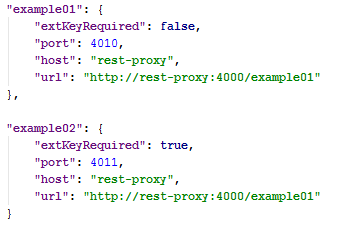
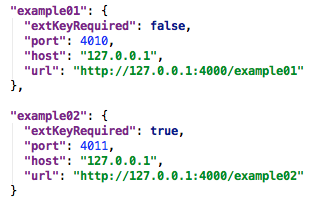
updated example 2 registry image, updated example03 and 04, changed localhost to 127.0.0.1

diff --git a/sections/getstarted/example03.html b/sections/getstarted/example03.html
@@ -36,7 +36,7 @@
 $ node index</code>
 			</pre>
 		<p>
-			<a href='#/documentation/urac'>URAC</a> is now running on http://localhost:4000/urac and will we will use it to login with our users later on when we start the tests.<br />
+			<a href='#/documentation/urac'>URAC</a> is now running on http://127.0.0.1:4000/urac and will we will use it to login with our users later on when we start the tests.<br />
 		</p>
 		</p>
 		<hr/>
@@ -62,13 +62,13 @@ $ ./soajs.mongo.sh</code></pre>
 $ cd soajs.examples/examples03
 $ node index</code></pre>
 		<p>
-			<b>Example03</b> is now running on http://localhost:4000/example03.<br />
+			<b>Example03</b> is now running on http://127.0.0.1:4000/example03.<br />
 
          Let's do a heartbeat check just to make sure all is working as expected before we begin the tests.<br /><br />
 		</p>
 		<fieldset><legend>Heartbeat urac</legend><div class="insideFieldsetMain">
 			<div>
-				<pre><code class="bash">$ curl -X GET "http://localhost:5001/heartbeat"</code></pre>
+				<pre><code class="bash">$ curl -X GET "http://127.0.0.1:5001/heartbeat"</code></pre>
 				<h6><u>Response:</u></h6>
 				<div ng-init="loadJSON(path + 'example03/heartbeat_urac.json', 'heartbeat_urac');">
 					<div id="heartbeat_urac"></div>
@@ -84,7 +84,7 @@ $ node index</code></pre>
 			<div class="insideFieldsetMain">
 
 			<div>
-				<pre><code class="bash">$ curl -X GET "http://localhost:5012/heartbeat"</code></pre>
+				<pre><code class="bash">$ curl -X GET "http://127.0.0.1:5012/heartbeat"</code></pre>
 				<h6><u>Response:</u></h6>
 				<div ng-init="loadJSON(path + 'example03/heartbeat_example03.json', 'heartbeat_example03');">
 					<div id="heartbeat_example03"></div>
@@ -358,7 +358,7 @@ $ node index</code></pre>
 			<div>
 				Above we had tried to access example03/buildName API using the key from the first application in tenant 1 and failed.
 				Now, let's log in as user1 from the sample above. Hit the "urac/login" API:
-				<pre><code class="bash">$ curl -X POST -H "key:4232477ed993d167ec13ccf8836c29c400fef7eb3d175b1f2192b82ebef6fb2d129cdd25fe23c04f856157184e11f7f57b65759191908cb5c664df136c7ad16a56a5917fdeabfc97c92a1f199e457e31f2450a810769ff1b29269bcb3f01e3d2" "http://localhost:4000/urac/login" -d "username=user1&password=123456"</code></pre>
+				<pre><code class="bash">$ curl -X POST -H "key:4232477ed993d167ec13ccf8836c29c400fef7eb3d175b1f2192b82ebef6fb2d129cdd25fe23c04f856157184e11f7f57b65759191908cb5c664df136c7ad16a56a5917fdeabfc97c92a1f199e457e31f2450a810769ff1b29269bcb3f01e3d2" "http://127.0.0.1:4000/urac/login" -d "username=user1&password=123456"</code></pre>
 				<em>We are using the key of the first application of tenant 1.</em>
 				<h6>Response:</h6>
 
@@ -371,7 +371,7 @@ $ node index</code></pre>
 
 				Grab the <b>soajsauth</b> property and add it in the headers of the consequent request.<br/>
 				Now hit "example03/buildName" API:
-				<pre><code class="bash">$ curl -X GET "http://localhost:4000/example03/buildName?lastName=Smith" -H "soajsauth:Basic c29hanM6czAxclV4WlRGbXdvS2VtOG1rTERGZW9ocDUwSzFYdDZaaUg=" -H "key:4232477ed993d167ec13ccf8836c29c400fef7eb3d175b1f2192b82ebef6fb2d129cdd25fe23c04f856157184e11f7f57b65759191908cb5c664df136c7ad16a56a5917fdeabfc97c92a1f199e457e31f2450a810769ff1b29269bcb3f01e3d2"</code></pre>
+				<pre><code class="bash">$ curl -X GET "http://127.0.0.1:4000/example03/buildName?lastName=Smith" -H "soajsauth:Basic c29hanM6czAxclV4WlRGbXdvS2VtOG1rTERGZW9ocDUwSzFYdDZaaUg=" -H "key:4232477ed993d167ec13ccf8836c29c400fef7eb3d175b1f2192b82ebef6fb2d129cdd25fe23c04f856157184e11f7f57b65759191908cb5c664df136c7ad16a56a5917fdeabfc97c92a1f199e457e31f2450a810769ff1b29269bcb3f01e3d2"</code></pre>
 				<h6>Response:</h6>
 
 				<div ng-init="loadJSON(path + 'example03/error154.json', 'userTest1_154');">
@@ -385,7 +385,7 @@ $ node index</code></pre>
 
 			<div>
 				Now, using the key from the first application, let's log in as user2 (hit the urac/login API):
-				<pre><code class="bash">$ curl -X POST -H "key:4232477ed993d167ec13ccf8836c29c400fef7eb3d175b1f2192b82ebef6fb2d129cdd25fe23c04f856157184e11f7f57b65759191908cb5c664df136c7ad16a56a5917fdeabfc97c92a1f199e457e31f2450a810769ff1b29269bcb3f01e3d2" "http://localhost:4000/urac/login" -d "username=user2&password=123456"</code></pre>
+				<pre><code class="bash">$ curl -X POST -H "key:4232477ed993d167ec13ccf8836c29c400fef7eb3d175b1f2192b82ebef6fb2d129cdd25fe23c04f856157184e11f7f57b65759191908cb5c664df136c7ad16a56a5917fdeabfc97c92a1f199e457e31f2450a810769ff1b29269bcb3f01e3d2" "http://127.0.0.1:4000/urac/login" -d "username=user2&password=123456"</code></pre>
 				<h6>Response:</h6>
 				<div ng-init="loadJSON(path + 'example03/tenant1/user2_app1_login.json', 'user2_app1_login');">
 					<div id="user2_app1_login"></div>
@@ -394,7 +394,7 @@ $ node index</code></pre>
 				Grab the <b>soajsauth</b> property and add it in the headers of the consequent request.<br/>
 				<br>
 				Hit "example03/buildName" API:
-				<pre><code class="bash">$ curl -X GET "http://localhost:4000/example03/buildName?lastName=Smith" -H "soajsauth:Basic c29hanM6czAxc1lfTGYzY0NqY1BBb3l4RnNDY1VUd1JLU2p3dlBSUzE=" -H "key:4232477ed993d167ec13ccf8836c29c400fef7eb3d175b1f2192b82ebef6fb2d129cdd25fe23c04f856157184e11f7f57b65759191908cb5c664df136c7ad16a56a5917fdeabfc97c92a1f199e457e31f2450a810769ff1b29269bcb3f01e3d2"</code></pre>
+				<pre><code class="bash">$ curl -X GET "http://127.0.0.1:4000/example03/buildName?lastName=Smith" -H "soajsauth:Basic c29hanM6czAxc1lfTGYzY0NqY1BBb3l4RnNDY1VUd1JLU2p3dlBSUzE=" -H "key:4232477ed993d167ec13ccf8836c29c400fef7eb3d175b1f2192b82ebef6fb2d129cdd25fe23c04f856157184e11f7f57b65759191908cb5c664df136c7ad16a56a5917fdeabfc97c92a1f199e457e31f2450a810769ff1b29269bcb3f01e3d2"</code></pre>
 				<h6>Response:</h6>
 
 				<div ng-init="loadJSON(path + 'example03/tenant1/user2_app1_response.json', 'user2_app1_response');">
@@ -416,7 +416,7 @@ $ node index</code></pre>
 				The login was successful and the response returned contains the <b>soajsauth</b> property.<br/>
 				<br>
 				Now hit example03/buildName API:
-				<pre><code class="bash">$ curl -X GET "http://localhost:4000/example03/buildName?lastName=Smith" -H "soajsauth:Basic c29hanM6czAxRFo4TjVIOFlVbk9JdGluYWpTdlJBSVFyTW1BdnJXWTE=" -H "key:4232477ed993d167ec13ccf8836c29c4550e88551c880d36fd42223ef81e0a6e1f668d42edc70d3d98fa8d28757e951bd7a04cf43829b5c2f38ed8c9ee87f03b79e564dd6aeaf8c37e90c92e6a69dccbd52b5a7812cad139bfbeaab69b023322"</code></pre>
+				<pre><code class="bash">$ curl -X GET "http://127.0.0.1:4000/example03/buildName?lastName=Smith" -H "soajsauth:Basic c29hanM6czAxRFo4TjVIOFlVbk9JdGluYWpTdlJBSVFyTW1BdnJXWTE=" -H "key:4232477ed993d167ec13ccf8836c29c4550e88551c880d36fd42223ef81e0a6e1f668d42edc70d3d98fa8d28757e951bd7a04cf43829b5c2f38ed8c9ee87f03b79e564dd6aeaf8c37e90c92e6a69dccbd52b5a7812cad139bfbeaab69b023322"</code></pre>
 				<h6>Response:</h6>
 
 				<div ng-init="loadJSON(path + 'example03/tenant1/user2_app2_response.json', 'user2_app2_response');">
@@ -430,7 +430,7 @@ $ node index</code></pre>
 
 			<div>
 				Now, using the key from the first application, let's login as user3:
-				<pre><code class="bash">$ curl -X POST -H "key:4232477ed993d167ec13ccf8836c29c400fef7eb3d175b1f2192b82ebef6fb2d129cdd25fe23c04f856157184e11f7f57b65759191908cb5c664df136c7ad16a56a5917fdeabfc97c92a1f199e457e31f2450a810769ff1b29269bcb3f01e3d2" "http://localhost:4000/urac/login" -d "username=user3&password=654321"</code></pre>
+				<pre><code class="bash">$ curl -X POST -H "key:4232477ed993d167ec13ccf8836c29c400fef7eb3d175b1f2192b82ebef6fb2d129cdd25fe23c04f856157184e11f7f57b65759191908cb5c664df136c7ad16a56a5917fdeabfc97c92a1f199e457e31f2450a810769ff1b29269bcb3f01e3d2" "http://127.0.0.1:4000/urac/login" -d "username=user3&password=654321"</code></pre>
 				<h6>Response:</h6>
 				<div ng-init="loadJSON(path + 'example03/tenant1/user3_app1_login.json', 'user3_app1_login');">
 					<div id="user3_app1_login"></div>
@@ -439,7 +439,7 @@ $ node index</code></pre>
 
 				<br>
 				Hit "example03/buildName" API:
-				<pre><code class="bash">$ curl -X GET "http://localhost:4000/example03/buildName?lastName=Smith" -H "soajsauth:Basic c29hanM6czAxMkdMWXBiX0lybndHR0dlaENwS2Z4NlpoV3dtYzhTeUw=" -H "key:4232477ed993d167ec13ccf8836c29c400fef7eb3d175b1f2192b82ebef6fb2d129cdd25fe23c04f856157184e11f7f57b65759191908cb5c664df136c7ad16a56a5917fdeabfc97c92a1f199e457e31f2450a810769ff1b29269bcb3f01e3d2"</code></pre>
+				<pre><code class="bash">$ curl -X GET "http://127.0.0.1:4000/example03/buildName?lastName=Smith" -H "soajsauth:Basic c29hanM6czAxMkdMWXBiX0lybndHR0dlaENwS2Z4NlpoV3dtYzhTeUw=" -H "key:4232477ed993d167ec13ccf8836c29c400fef7eb3d175b1f2192b82ebef6fb2d129cdd25fe23c04f856157184e11f7f57b65759191908cb5c664df136c7ad16a56a5917fdeabfc97c92a1f199e457e31f2450a810769ff1b29269bcb3f01e3d2"</code></pre>
 				<h6>Response:</h6>
 
 				<div ng-init="loadJSON(path + 'example03/tenant1/user3_app1_response.json', 'user3_app1_response');">
@@ -448,7 +448,7 @@ $ node index</code></pre>
 				User3 can access "example03/buildName". And notice the value of "tenantName".
 				<br> <br>
 				Try to hit "example03/testGet" API:
-				<pre><code class="bash">$ curl -X GET "http://localhost:4000/example03/testGet?lastName=Smith" -H "soajsauth:Basic c29hanM6czAxMkdMWXBiX0lybndHR0dlaENwS2Z4NlpoV3dtYzhTeUw=" -H "key:4232477ed993d167ec13ccf8836c29c400fef7eb3d175b1f2192b82ebef6fb2d129cdd25fe23c04f856157184e11f7f57b65759191908cb5c664df136c7ad16a56a5917fdeabfc97c92a1f199e457e31f2450a810769ff1b29269bcb3f01e3d2"</code></pre>
+				<pre><code class="bash">$ curl -X GET "http://127.0.0.1:4000/example03/testGet?lastName=Smith" -H "soajsauth:Basic c29hanM6czAxMkdMWXBiX0lybndHR0dlaENwS2Z4NlpoV3dtYzhTeUw=" -H "key:4232477ed993d167ec13ccf8836c29c400fef7eb3d175b1f2192b82ebef6fb2d129cdd25fe23c04f856157184e11f7f57b65759191908cb5c664df136c7ad16a56a5917fdeabfc97c92a1f199e457e31f2450a810769ff1b29269bcb3f01e3d2"</code></pre>
 				<h6>Response:</h6>
 
 				<div ng-init="loadJSON(path + 'example03/tenant1/user3_app1_response2.json', 'user3_app1_response2');">

diff --git a/sections/getstarted/example04.html b/sections/getstarted/example04.html
@@ -28,14 +28,14 @@ $ ./soajs.mongo.sh</code>
 $ cd soajs.examples/examples04
 $ node index</code></pre>
 		<p>
-			<b>Example04</b> is now running on http://localhost:4000/example04.<br/>
-			                 Let's do a heartbeat check just to make sure all is working as expected before we begin the tests.<br/><br/>
+			<b>Example04</b> is now running on http://127.0.0.1:4000/example04.<br/>
+            Let's do a heartbeat check just to make sure all is working as expected before we begin the tests.<br/><br/>
 		</p>
 
 		<fieldset><legend>Heartbeat Example04</legend>
 			<div class="insideFieldsetMain">
 			<div>
-				<pre><code class="bash">$ curl -X GET "http://localhost:5013/heartbeat"</code></pre>
+				<pre><code class="bash">$ curl -X GET "http://127.0.0.1:5013/heartbeat"</code></pre>
 				<h6><u>Response:</u></h6>
 
 				<div ng-init="loadJSON(path + 'example04/heartbeat_example04.json', 'heartbeat_example04');">
@@ -129,7 +129,7 @@ $ node index</code></pre>
 			in this case it is (<b>54ee2150b7a669fc22b7f6b9</b>:<b>My secret phrase</b>) which evaluates to "NTRlZTIxNTBiN2E2NjlmYzIyYjdmNmI5Ok15IHNlY3JldCBwaHJhc2U=".
 				<br /><br />
 
-				<pre><code class="bash">$ curl -X POST -H "Authorization: Basic NTRlZTIxNTBiN2E2NjlmYzIyYjdmNmI5Ok15IHNlY3JldCBwaHJhc2U=" -H "key:4232477ed993d167ec13ccf8836c29c400fef7eb3d175b1f2192b82ebef6fb2d129cdd25fe23c04f856157184e11f7f57b65759191908cb5c664df136c7ad16a56a5917fdeabfc97c92a1f199e457e31f2450a810769ff1b29269bcb3f01e3d2" "http://localhost:4000/oauth/token" -d 'username=oauthuser_tenant1&password=oauthpassword_tenant1&grant_type=password'</code></pre>
+				<pre><code class="bash">$ curl -X POST -H "Authorization: Basic NTRlZTIxNTBiN2E2NjlmYzIyYjdmNmI5Ok15IHNlY3JldCBwaHJhc2U=" -H "key:4232477ed993d167ec13ccf8836c29c400fef7eb3d175b1f2192b82ebef6fb2d129cdd25fe23c04f856157184e11f7f57b65759191908cb5c664df136c7ad16a56a5917fdeabfc97c92a1f199e457e31f2450a810769ff1b29269bcb3f01e3d2" "http://127.0.0.1:4000/oauth/token" -d 'username=oauthuser_tenant1&password=oauthpassword_tenant1&grant_type=password'</code></pre>
 				<h6>Response:</h6>
 
 				<div ng-init="loadJSON(path + 'example04/oauth_login.json', 'oauth_login');">
